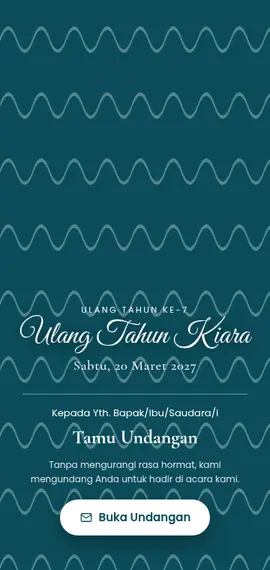
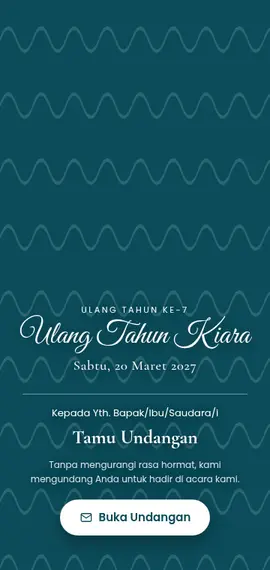
Undangan QA pass: Walimatul Ursy mockups, door seam, readable pattern covers, WA bubble/tip no longer cover content, guest table overlap, hero word no reflow, no unverified popularity claims, rida spelling, sw v65

diff --git a/undangan/landing.js b/undangan/landing.js
@@ -40,12 +40,12 @@
     [p.editor, 'Sunting sendiri'], [p.stream, 'Tautan siaran langsung'], [p.autoscroll, 'Gulir otomatis'], [p.checkin, 'Catat hadir di pintu'],
     [p.story, 'Kisah perjalanan'], [p.mapsEmbed, 'Peta tertanam'], [p.customColor, 'Warna aksen sendiri']
   ];
-  const sub = { coba: 'Uji tema, belum untuk disebar', dasar: 'Tanpa musik, galeri, dan amplop', klasik: 'Dengan musik, tanpa galeri', lengkap: 'Paling sering dipesan', luas: 'Untuk acara besar', penuh: 'Semua fitur terbuka' };
+  const sub = { coba: 'Uji tema, belum untuk disebar', dasar: 'Tanpa musik, galeri, dan amplop', klasik: 'Dengan musik, tanpa galeri', lengkap: 'Pilihan paling seimbang', luas: 'Untuk acara besar', penuh: 'Semua fitur terbuka' };
   const priceBand = (n) => '<div class="band"><small>Rp</small>' + Number(n).toLocaleString('id-ID') + '</div>';
   function pkgCard(p) {
     const rows = featRows(p).map((r) => '<li class="' + (r[0] ? 'y' : 'n') + '">' + r[1] + '</li>').join('');
     const cta = p.price > 0 ? '<a class="btn xs wide" href="pesan/?paket=' + p.id + '">Pilih ' + p.name + '</a>' : '<a class="btn out xs wide" href="#tema">Lihat tema</a>';
-    return '<article class="pcard' + (p.id === 'lengkap' ? ' pick' : '') + '">' + (p.id === 'lengkap' ? '<span class="ribbon">Terlaris</span>' : '') + '<h3>' + p.name + '</h3><p class="psub">' + (sub[p.id] || p.blurb) + '</p>' + priceBand(p.price) + '<ul class="pl">' + rows + '</ul><button type="button" class="more">Tampilkan lebih banyak ⌄</button>' + cta + '</article>';
+    return '<article class="pcard' + (p.id === 'lengkap' ? ' pick' : '') + '">' + (p.id === 'lengkap' ? '<span class="ribbon">Disarankan</span>' : '') + '<h3>' + p.name + '</h3><p class="psub">' + (sub[p.id] || p.blurb) + '</p>' + priceBand(p.price) + '<ul class="pl">' + rows + '</ul><button type="button" class="more">Tampilkan lebih banyak ⌄</button>' + cta + '</article>';
   }
   function planCard(p) {
     return '<article class="pcard"><h3>' + p.name + '</h3><p class="psub">' + p.blurb + '</p>' + priceBand(p.price) + '<ul class="pl"><li class="y">Banyak undangan dalam ' + p.name + '</li><li class="y">Fitur setara paket Penuh</li><li class="y">Semua tema iTAP</li><li class="y">Tanpa masa aktif per undangan</li><li class="y">Dibantu admin lewat WhatsApp</li></ul><a class="btn xs wide" href="' + wa('Halo iTAP, saya tertarik paket langganan ' + p.name + ' (' + rp(p.price) + ').') + '" target="_blank" rel="noopener">Tanya paket ' + p.name + '</a></article>';
@@ -67,10 +67,12 @@
   // Teks berganti di hero
   const words = ['Pernikahan', 'Khitanan', 'Aqiqah', 'Ulang Tahun', 'Wisuda', 'Syukuran'];
   let wi = 0;
-  if (!matchMedia('(prefers-reduced-motion: reduce)').matches) setInterval(() => { const r = $('rot'); r.classList.add('out'); setTimeout(() => { wi = (wi + 1) % words.length; r.textContent = words[wi]; r.classList.remove('out'); }, 250); }, 2400);
+  if (!matchMedia('(prefers-reduced-motion: reduce)').matches) setInterval(() => { const r = $('rot'); r.classList.add('out'); setTimeout(() => { wi = (wi + 1) % words.length; r.textContent = words[wi]; r.classList.remove('out'); }, 180); }, 2600);
 
   // Tip WhatsApp
   const tip = $('waTip');
-  if (!sessionStorage.getItem('itap_wa_tip')) setTimeout(() => tip.classList.add('on'), 2500);
+  // Muncul sekali, hanya saat pengunjung masih di atas halaman, lalu hilang sendiri supaya tidak menutupi isi.
+  const hideTip = () => { tip.classList.remove('on'); sessionStorage.setItem('itap_wa_tip', '1'); };
+  if (!sessionStorage.getItem('itap_wa_tip')) setTimeout(() => { if (scrollY < 200) { tip.classList.add('on'); setTimeout(hideTip, 6000); addEventListener('scroll', hideTip, { once: true, passive: true }); } }, 2500);
   $('waTipX').onclick = () => { tip.classList.remove('on'); sessionStorage.setItem('itap_wa_tip', '1'); };
 })();

diff --git a/undangan/common.js b/undangan/common.js
@@ -2,14 +2,14 @@
 (function () {
   const cfg = window.ITAP_UNDANGAN || {};
   const base = document.body.dataset.base || './';
-  const VERSION = 'Undangan iTAP v2.1 · 10 Nov 2026';
+  const VERSION = 'Undangan iTAP v2.2 · 10 Nov 2026';
   const wa = (text) => 'https://wa.me/' + (cfg.wa || '6287749476651') + '?text=' + encodeURIComponent(text || 'Halo iTAP');
   const esc = (s) => String(s ?? '').replace(/[&<>"']/g, (c) => ({ '&': '&amp;', '<': '&lt;', '>': '&gt;', '"': '&quot;', "'": '&#39;' }[c]));
 
   // id = varian desain, theme = gaya dasar di database (melayu/emas/pantai/islami).
   // rating: isi hanya dari ulasan pembeli sungguhan. Kosong = tidak ditampilkan.
   const themes = [
-    { id: 'melayu', theme: 'melayu', name: 'Melayu Belitong', cats: ['pernikahan'], styles: ['budaya', 'elegan'], colors: ['#4a1c24', '#8c2f3b', '#e8c98a'], photo: true, popular: true, rec: false, tag: 'Favorit', bg: '#f3e3d3', words: 'melayu belitung adat songket marun emas tradisional' },
+    { id: 'melayu', theme: 'melayu', name: 'Melayu Belitong', cats: ['pernikahan'], styles: ['budaya', 'elegan'], colors: ['#4a1c24', '#8c2f3b', '#e8c98a'], photo: true, popular: true, rec: false, tag: 'Unggulan', bg: '#f3e3d3', words: 'melayu belitung adat songket marun emas tradisional' },
     { id: 'emas', theme: 'emas', name: 'Putih Emas', cats: ['pernikahan'], styles: ['elegan', 'formal'], colors: ['#1c1a17', '#a6843d', '#fbf8f2'], photo: true, popular: true, rec: false, tag: 'Elegan', bg: '#efe8dc', words: 'putih emas gold klasik mewah modern' },
     { id: 'hijab', theme: 'islami', name: 'Syar\u2019i Hijau', cats: ['pernikahan'], styles: ['elegan', 'simpel'], colors: ['#0c3b2e', '#2f6b4f', '#e1ede5'], photo: true, popular: true, rec: true, tag: 'Baru', bg: '#e1ede5', words: 'islami muslim syari hijab hijau sage walimah' },
     { id: 'masjid', theme: 'islami', name: 'Kubah Krem', cats: ['pernikahan'], styles: ['budaya', 'elegan'], colors: ['#2f6b4f', '#f1e8cf', '#c9b47a'], photo: true, popular: false, rec: true, tag: 'Baru', bg: '#efe6cc', words: 'islami masjid kubah krem hijau walimatul ursy pintu' },
@@ -88,6 +88,14 @@
     a.className = 'wa-fab'; a.href = wa('Halo iTAP, saya mau pesan undangan digital.'); a.target = '_blank'; a.rel = 'noopener'; a.setAttribute('aria-label', 'Chat admin di WhatsApp');
     a.innerHTML = '<svg viewBox="0 0 32 32" aria-hidden="true"><path d="M16 3a13 13 0 0 0-11.2 19.6L3 29l6.6-1.7A13 13 0 1 0 16 3z" fill="#fff"/><path d="M16 5.2a10.8 10.8 0 0 0-9.2 16.5l.3.4-1.1 4 4.1-1.1.4.2A10.8 10.8 0 1 0 16 5.2z" fill="#25d366"/><path d="M12 10.3c-.3-.6-.6-.6-.9-.6h-.7c-.3 0-.7.1-1 .5-.4.4-1.3 1.3-1.3 3.1s1.3 3.6 1.5 3.9c.2.2 2.6 4.1 6.4 5.6 3.2 1.2 3.8 1 4.5.9.7-.1 2.2-.9 2.5-1.8.3-.9.3-1.6.2-1.8-.1-.2-.3-.3-.7-.5l-2.4-1.2c-.3-.1-.6-.2-.8.2l-1.1 1.4c-.2.2-.4.3-.8.1-.4-.2-1.5-.6-2.9-1.8-1.1-1-1.8-2.1-2-2.5-.2-.4 0-.6.2-.8l.6-.7.4-.6c.1-.2 0-.5 0-.7z" fill="#fff"/></svg>';
     document.body.appendChild(a);
+    // Saat digulir, gelembung WA menyingkir supaya tidak menutupi isi; muncul lagi saat berhenti.
+    let t = 0;
+    const footEl = () => document.getElementById('foot');
+    addEventListener('scroll', () => {
+      a.classList.add('away');
+      clearTimeout(t);
+      t = setTimeout(() => { const f = footEl(); const nearFoot = f && f.getBoundingClientRect().top < innerHeight - 40; a.classList.toggle('away', !!nearFoot); }, 700);
+    }, { passive: true });
   }
   // Gulir halus ke harga (dengan jarak header)
   document.addEventListener('click', (e) => {

diff --git a/undangan/landing.css b/undangan/landing.css
@@ -38,7 +38,7 @@ section{padding:34px 0}section.w{padding:40px 18px}
 /* hero */
 .hero{display:grid;gap:26px;align-items:center;padding-top:34px}
 .hero h1{font-size:clamp(2rem,6.4vw,3.3rem);font-weight:700;letter-spacing:-.01em}
-.rot{color:var(--sky);display:inline-block;transition:opacity .25s,transform .25s}.rot.out{opacity:0;transform:translateY(6px)}
+.rot{color:var(--sky);display:block;white-space:nowrap;min-height:1.2em;transition:opacity .18s,transform .18s}.rot.out{opacity:0;transform:translateY(4px)}
 .hero-txt>p{font-size:1.02rem;max-width:560px}
 .fine{font-style:italic;font-size:.85rem;color:var(--ink)}
 .hero-art{position:relative;height:420px;display:flex;justify-content:center;align-items:center}
@@ -90,10 +90,10 @@ section{padding:34px 0}section.w{padding:40px 18px}
 .ftxt h2{font-size:clamp(1.25rem,3vw,1.6rem)}
 .fart{position:relative;min-height:260px;border-radius:24px;background:linear-gradient(135deg,#e7f4fd,#fff);display:flex;align-items:center;justify-content:center;padding:22px}
 .gl{background:#fff;border-radius:14px;box-shadow:0 10px 26px #0b2d4f22;padding:12px;width:min(320px,100%);font-size:.82rem}
-.gl>div{display:grid;grid-template-columns:28px 1fr 26px;padding:5px 4px;border-bottom:1px solid var(--line)}
-.glh{font-weight:600;color:var(--mu)}.gl i{font-style:normal;color:var(--sky2)}
+.gl>div{display:grid;grid-template-columns:28px 1fr 52px;padding:5px 4px;border-bottom:1px solid var(--line)}
+.glh{font-weight:600;color:var(--mu)}.gl i{font-style:normal;color:var(--sky2);text-align:right}.glh span:last-child{text-align:right}
 .gbtn{display:block;margin-top:10px;background:var(--sky);color:#fff;text-align:center;border-radius:8px;padding:8px}
-.bubble{position:absolute;right:8%;bottom:10%;background:var(--navy);color:#fff;font-size:.78rem;padding:6px 12px;border-radius:12px 12px 2px 12px}
+.bubble{position:absolute;left:8%;bottom:-6px;z-index:2;background:var(--navy);color:#fff;font-size:.78rem;padding:6px 12px;border-radius:12px 12px 2px 12px}
 .edit{gap:16px}.ep{background:#fff;border-radius:14px;box-shadow:0 10px 26px #0b2d4f22;padding:14px;width:200px;font-size:.78rem}
 .ep b{display:block;color:var(--sky2);margin-bottom:6px}.ef{border:1px solid var(--line);border-radius:8px;padding:6px 8px;margin:6px 0}
 .ef.two{display:flex;justify-content:space-between}.ep ul{padding-left:16px;margin:8px 0 0}
@@ -161,6 +161,8 @@ section{padding:34px 0}section.w{padding:40px 18px}
 /* WA mengambang + bottom nav */
 .wa-fab{position:fixed;right:16px;bottom:82px;z-index:60;width:56px;height:56px;border-radius:50%;background:var(--wa);display:grid;place-items:center;box-shadow:0 8px 22px #25d36666}
 .wa-fab svg{width:32px;height:32px}
+.wa-fab{transition:transform .25s,opacity .25s}.wa-fab.away{transform:translateX(90px);opacity:0;pointer-events:none}
+@media(max-width:960px){.wa-fab{width:50px;height:50px;right:12px;bottom:76px}.wa-fab svg{width:28px;height:28px}}
 .wa-tip{position:fixed;right:16px;bottom:146px;z-index:60;width:230px;background:#fff;border-radius:12px;box-shadow:0 10px 26px #0003;padding:10px 12px;font-size:.78rem;opacity:0;transform:translateY(8px);pointer-events:none;transition:.25s}
 .wa-tip.on{opacity:1;transform:none;pointer-events:auto}
 .wa-tip b{display:block;color:#0a9f48;font-size:.72rem}.wa-tip button{position:absolute;top:-8px;left:-8px;width:22px;height:22px;border-radius:50%;border:0;background:#eee;cursor:pointer}

diff --git a/u/invite.css b/u/invite.css
@@ -78,7 +78,7 @@ textarea{min-height:90px}
 /* dock + fabs */
 .dock{position:fixed;bottom:12px;left:50%;transform:translateX(-50%);z-index:20;display:flex;gap:2px;padding:6px;border-radius:999px;background:#fffffff0;box-shadow:0 10px 30px #0003;border:1px solid var(--line)}
 .dock a{display:flex;flex-direction:column;align-items:center;gap:1px;min-width:56px;padding:6px 4px;border-radius:999px;color:var(--accent);text-decoration:none;font-size:.62rem}
-.dock a:hover,.dock a:focus{background:var(--soft)}
+.dock a:focus-visible{background:var(--soft)}
 .fabs{position:fixed;right:max(12px,calc(50% - 228px));bottom:130px;z-index:20;display:flex;flex-direction:column;gap:10px}
 .fab{width:46px;height:46px;border-radius:50%;border:0;background:var(--accent);color:#fff;display:grid;place-items:center;box-shadow:0 6px 16px #0004;cursor:pointer}
 .fab.on{background:#fff;color:var(--accent);box-shadow:0 0 0 2px var(--accent)}
@@ -170,5 +170,13 @@ img.avatar{object-fit:cover;object-position:top;padding:0}
 .dock.textnav::-webkit-scrollbar{display:none}
 .dock.textnav a{flex:0 0 auto;flex-direction:row;gap:6px;min-width:0;padding:8px 14px;font-size:.78rem;color:#f7f2e4;background:#ffffff14}
 .dock.textnav a svg{width:16px;height:16px}
-.dock.textnav a:hover,.dock.textnav a:focus{background:#ffffff33}
+.dock.textnav a:focus-visible{background:#ffffff33}
 .design-masjid .fabs{bottom:120px}.design-masjid .scrollpill{bottom:70px}.design-masjid .tip{bottom:110px}
+/* QA 10 Nov: sambungan pintu tidak lagi membelah wajah; motif sampul tanpa foto diredam supaya teks terbaca */
+.doors .half.l,.doors .half.r{border:0}
+.sheet:not(.design-masjid) .cover:not(.has-photo)::before{opacity:.16}
+.doors:not(.design-masjid) .cover:not(.has-photo) .half::after{opacity:.16}
+.sheet:not(.design-masjid) .cover:not(.has-photo) .cover-in{text-shadow:0 2px 14px #0009}
+.gallery:has(> button:only-child){columns:1;max-width:320px;margin:0 auto}
+@media(hover:hover){.dock a:hover{background:var(--soft)}.dock.textnav a:hover{background:#ffffff33}}
+.dock.textnav{-webkit-mask-image:linear-gradient(90deg,#000 88%,#0000);mask-image:linear-gradient(90deg,#000 88%,#0000)}

diff --git a/u/invite.js b/u/invite.js
@@ -80,7 +80,7 @@
       + '</section>' : '';
     const stream = flags.stream && data.streamUrl ? '<p class="center"><a class="cta" href="' + esc(data.streamUrl) + '" target="_blank" rel="noopener">Tonton siaran</a></p>' : '';
     const opening = data.opening || (isWedding
-      ? 'Dengan memohon rahmat dan ridha Tuhan Yang Maha Esa, kami bermaksud menyelenggarakan pernikahan putra-putri kami. Kehadiran dan doa Bapak/Ibu/Saudara/i adalah hadiah terindah bagi kami.'
+      ? 'Dengan memohon rahmat dan rida Tuhan Yang Maha Esa, kami bermaksud menyelenggarakan pernikahan putra-putri kami. Kehadiran dan doa Bapak/Ibu/Saudara/i adalah hadiah terindah bagi kami.'
       : 'Dengan penuh rasa syukur, kami mengundang Bapak/Ibu/Saudara/i untuk hadir dan mendoakan acara keluarga kami.');
     const quote = data.quote || (isWedding && muslim ? '“Dan di antara tanda-tanda kebesaran-Nya ialah Dia menciptakan pasangan untukmu dari jenismu sendiri, agar kamu merasa tenteram kepadanya, dan Dia menjadikan di antaramu rasa kasih dan sayang.” (QS Ar-Rum: 21)' : '');
     const hostCards = (data.hosts || []).map((h, i) => {

diff --git a/undangan/tema/tema.js b/undangan/tema/tema.js
@@ -12,7 +12,7 @@
     const label = acara ? 'Tema ' + (T.cats.find((c) => c[0] === acara) || [, ''])[1] : 'Semua tema';
     $('listTitle').textContent = label + (gaya ? ' · ' + (T.styles.find((s) => s[0] === gaya) || [, ''])[1] : '');
     const groups = [
-      ['Terpopuler', list.filter((t) => t.popular), 'Paling sering dibuka di pratinjau.'],
+      ['Unggulan', list.filter((t) => t.popular), 'Tema andalan iTAP untuk mulai.'],
       ['Rekomendasi', list.filter((t) => t.rec && !t.popular), 'Pilihan admin iTAP untuk dicoba.'],
       ['Tanpa Foto', list.filter((t) => !t.photo), 'Cocok bila belum punya foto atau untuk acara keluarga.'],
       ['Tema lainnya', list.filter((t) => t.photo && !t.popular && !t.rec), '']

diff --git a/sw.js b/sw.js
@@ -1,7 +1,7 @@
 // iTAP Belitung — service worker situs utama.
 // Naikkan VER tiap rilis aset. Cache lama itap-* dihapus saat aktivasi.
 // localStorage / IndexedDB (termasuk data kasir) tidak disentuh.
-const VER = 'itap-v64';
+const VER = 'itap-v65';
 const SCOPE = new URL('./', self.location).pathname;
 const LIVE = /^data\/(harga-pangan|keuangan|ppob-harga|berita|loker)\.json$/;
 const PRECACHE = [
